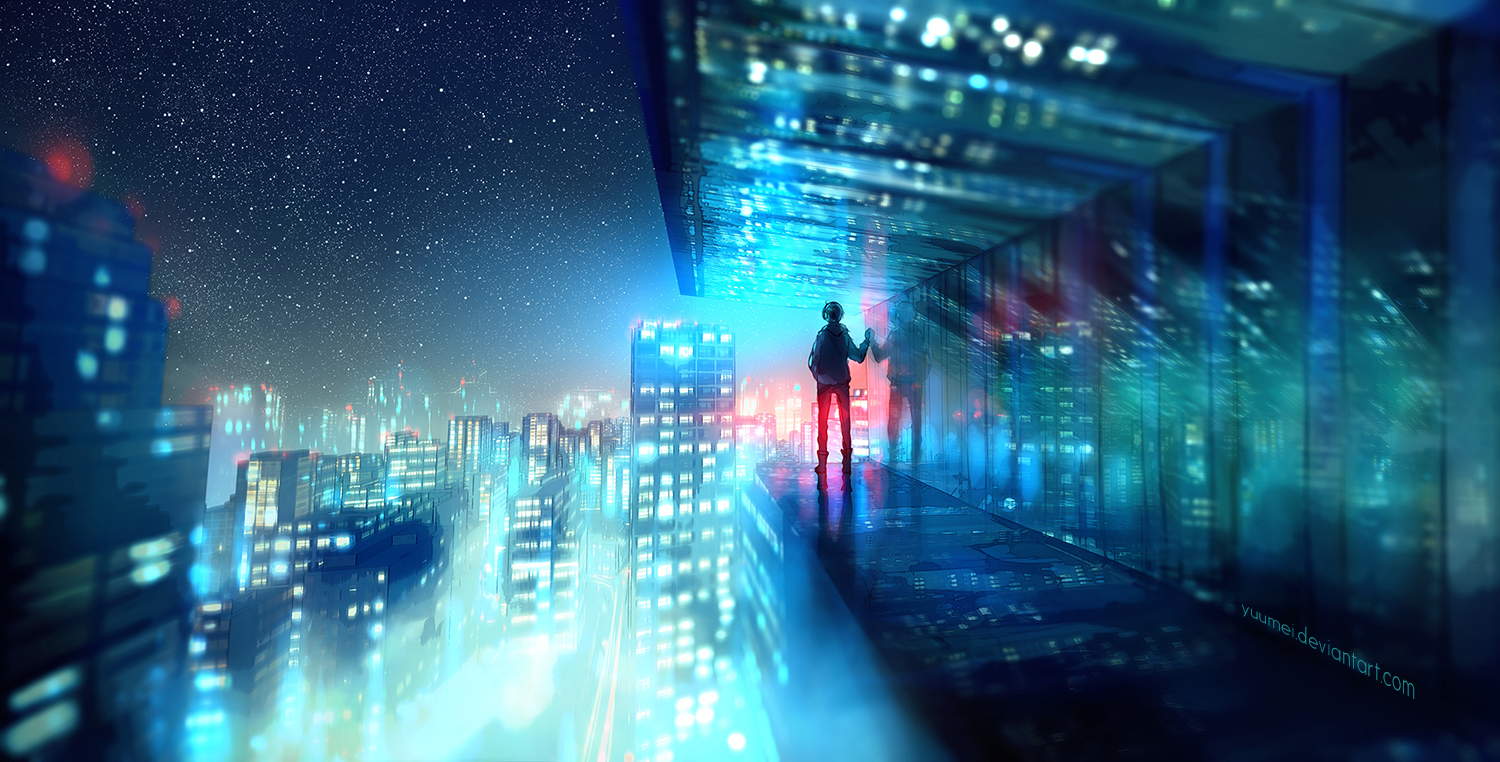
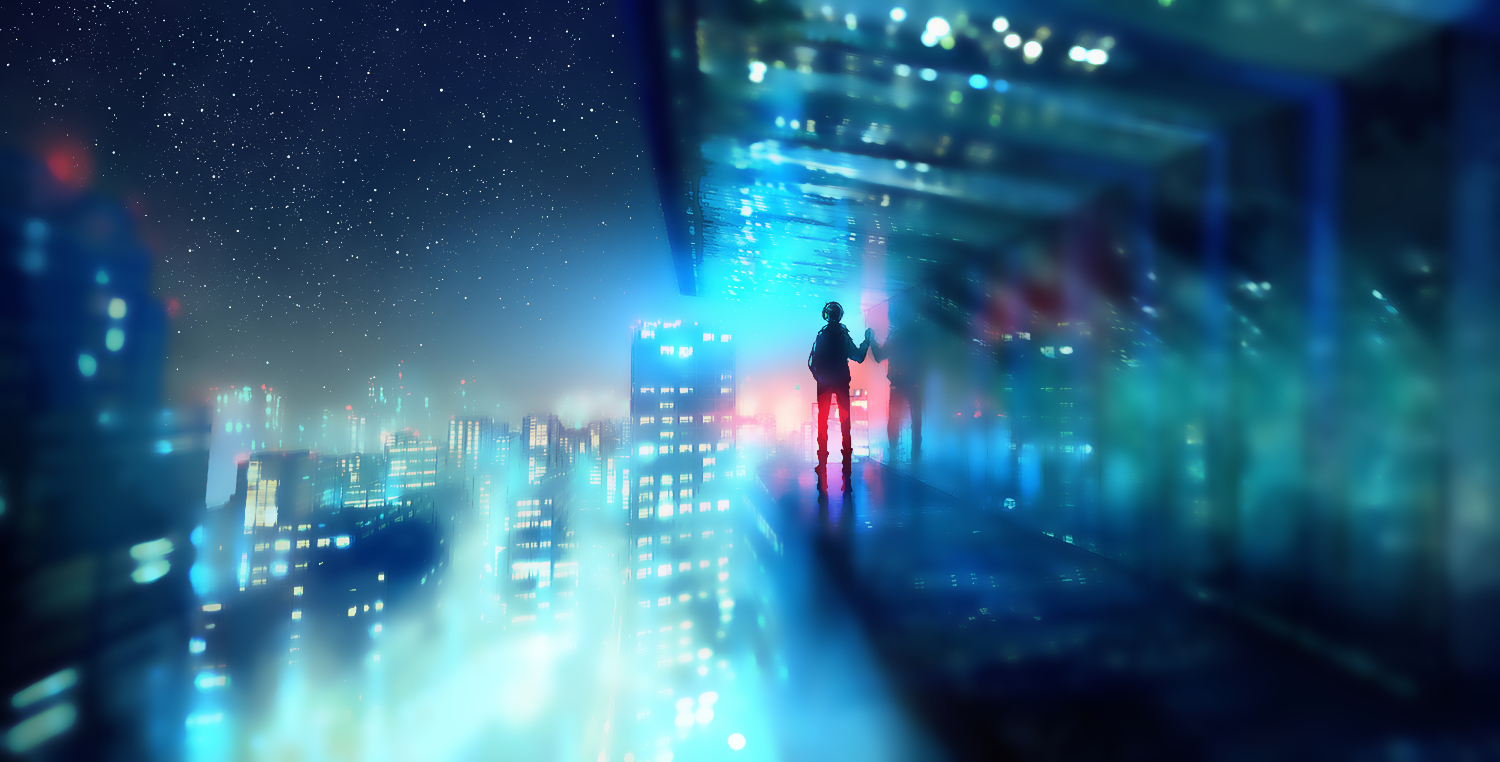
Updates
*github.io hosing main website
^ from www. and root

diff --git a/index.html b/index.html
@@ -1,3 +1,8 @@
+<!-- 
+    Background is from yuumei.deviantart.com
+    "Above the Lights" -- http://fav.me/d8rr0oe
+    otherwise noted; (C)2015 Megic LTD
+-->
 <!DOCTYPE HTML>
 <html>
 	<head>
@@ -6,18 +11,16 @@
         <meta http-equiv="X-UA-Compatible" content="IE=edge" />
 		<meta http-equiv="content-type" content="text/html; charset=utf-8" />
 		<meta name="description" content="A Personal Website" />
-		<meta name="keywords" content="" />
-		<link rel="icon" type="image/gif" href="//edge.shortcord.com/favicon.gif" />
-		<link rel="shortcut icon" href="//edge.shortcord.com/favicon.gif" />
-		<link rel="apple-touch-icon" href="//edge.shortcord.com/favicon.gif" />
-		<link rel="apple-touch-icon" sizes="76x76" href="//edge.shortcord.com/favicon.gif" />
-		<link rel="apple-touch-icon" sizes="120x120" href="//edge.shortcord.com/favicon.gif" />
-		<link rel="apple-touch-icon" sizes="152x152" href="//edge.shortcord.com/favicon.gif" />
+		<meta name="keywords" content="shortcord teh-random-name tristansmith megic" />
+		<link rel="icon" type="image/png" href="/favicon.png" />
+		<link rel="shortcut icon" href="/favicon.png" />
+		<link rel="apple-touch-icon" href="/favicon.png" />
+		<link rel="apple-touch-icon" sizes="76x76" href="/favicon.png" />
+		<link rel="apple-touch-icon" sizes="120x120" href="/favicon.png" />
+		<link rel="apple-touch-icon" sizes="152x152" href="/favicon.png" />
 		<!--[if lte IE 8]><script src="js/html5shiv.js"></script><![endif]-->
-		<script src="js/jquery.min.js"></script>
-        <script src="js/index.js"></script>
-        <script src="//edge.shortcord.com/api/v002/frameworks/videojs/video.js"></script>
-        <script src="//edge.shortcord.com/api/v002/frameworks/videojs/plugins/background.js"></script>
+		<script src="//edge.shortcord.com/api/v002/frameworks/jquery/2.1.0.js"></script>
+        <script src="/js/index.js"></script>
 		<script type="text/javascript">
 			var _paq = _paq || [];
 			_paq.push(['trackPageView']);
@@ -30,28 +33,10 @@
 			g.type='text/javascript'; g.async=true; g.defer=true; g.src=u+'piwik.js'; s.parentNode.insertBefore(g,s);
 		})();
 		</script>
-        <script>
-            $(function() {
-                var BV = new $.BigVideo();
-                BV.init();
-                BV.show([
-                    { type: "video/mp4", src: "https://edge.shortcord.com/video/GTA5Timelapse.mp4" },
-                    { type: "video/webm", src: "https://edge.shortcord.com/video/GTA5Timelapse.webm" }
-                ]);
-                var player = BV.getPlayer();
-                player.volume(0);
-                player.controls(false);
-                player.loop(true);
-                player.preload('auto');
-                $('.vjs-loading-spinner').remove(); //ugly, but removes the spinner for chrome
-            });
-        </script>
         <link rel="stylesheet" href="css/reset.css" />
         <link rel="stylesheet" href="css/core.css" />
         <link rel="stylesheet" href="//edge.shortcord.com/css/nexa-font.css" />
-        <link rel="stylesheet" href="//edge.shortcord.com/api/v002/frameworks/videojs/video-js.css" />
         <link rel="stylesheet" href="//edge.shortcord.com/api/v002/frameworks/fontawesome/font-awesome.css" />
-		<link rel="stylesheet" href="css/steam.css" />
 		<link rel="stylesheet" href="css/index.css" />
 	</head>
 	<body>
@@ -60,12 +45,11 @@
             <div class="center-cover">
                 <header id="hi">Hi</header>
                 <ul class="actions">
-                    <li><a target="_blank" href="//bitbucket.org/ShortCord/" class="button special">Bitbucket</a></li>
-                    <li><a target="_blank" href="//github.com/teh-random-name" class="button special">Github</a></li>
-                    <li><a target="_blank" href="//steamcommunity.com/id/shortcord/" class="button special">Steam</a></li>
-                    <li><a target="_blank" href="//osu.ppy.sh/u/3055010" class="button special">osu!</a></li>
-                    <li><a target="_blank" href="//megic.co/" class="button special">Megic</a></li>
-                    <li><a target="_blank" href="https://plus.google.com/107511601809381440678" rel="publisher" class="button special">G+</a></li>
+                    <li><a target="_blank" href="//github.com/teh-random-name" class="button small special">Github</a></li>
+                    <li><a target="_blank" href="//steamcommunity.com/profiles/76561198008513879" class="button small special">Steam</a></li>
+                    <li><a target="_blank" href="//osu.ppy.sh/u/3055010" class="button small special">osu!</a></li>
+                    <li><a target="_blank" href="//megic.co/" class="button small special">Megic</a></li>
+                    <li><a target="_blank" href="https://plus.google.com/107511601809381440678" rel="publisher" class="button small special">G+</a></li>
                 </ul>
             </div>
         </section>

diff --git a/css/core.css b/css/core.css
@@ -224,7 +224,7 @@ input[type="submit"].small,
 input[type="reset"].small,
 input[type="button"].small,
 .button.small {
-    font-size: 0.8em;
+    font-size: .95em;
 }
 
 input[type="submit"].big,
@@ -268,7 +268,7 @@ input[type="submit"].special,
 input[type="reset"].special,
 input[type="button"].special,
 .button.special {
-    background-color: #49bf9d;
+    background-color: rgba(0, 0, 0, 0.25);
     color: #ffffff !important;
 }
 
@@ -276,14 +276,14 @@ input[type="submit"].special:hover,
 input[type="reset"].special:hover,
 input[type="button"].special:hover,
 .button.special:hover {
-    background-color: #5cc6a7;
+    background-color: rgba(0, 0, 0, 0.7);
 }
 
 input[type="submit"].special:active,
 input[type="reset"].special:active,
 input[type="button"].special:active,
 .button.special:active {
-    background-color: #3eb08f;
+    background-color: rgba(255, 255, 255, 0.40);
 }
 
 input[type="submit"].disabled, input[type="submit"]:disabled,

diff --git a/css/index.css b/css/index.css
@@ -32,6 +32,7 @@ body {
 #banner:before {
     content:"";
     background:url('/img/above_the_lights_by_yuumei.jpg') no-repeat fixed rgb(55, 55, 55);
+    /*yuumei.deviantart.com*/
     background-size:cover;
     display:block;
     width:100%;
@@ -42,9 +43,11 @@ body {
     left:0px;
     right:0px;
     z-index:-1;
+    /*
     -webkit-filter:blur(10px);
     -mox-filter:blur(10px);
     -ms-filter:blur(10px);
     -o-filter:blur(10px);
     filter:blur(10px);
+    */
 }

diff --git a/js/init.js b/js/init.js
@@ -104,8 +104,6 @@
 
 	$(function() {
 
-		// jQuery ready stuff.
-
 	});
 
 })(jQuery);

diff --git a/README.md b/README.md
@@ -1,0 +1,3 @@
+Source of my [Website](https://shortcord.com/)
+----
+MIT Licensed (C)2015 Megic LTD
